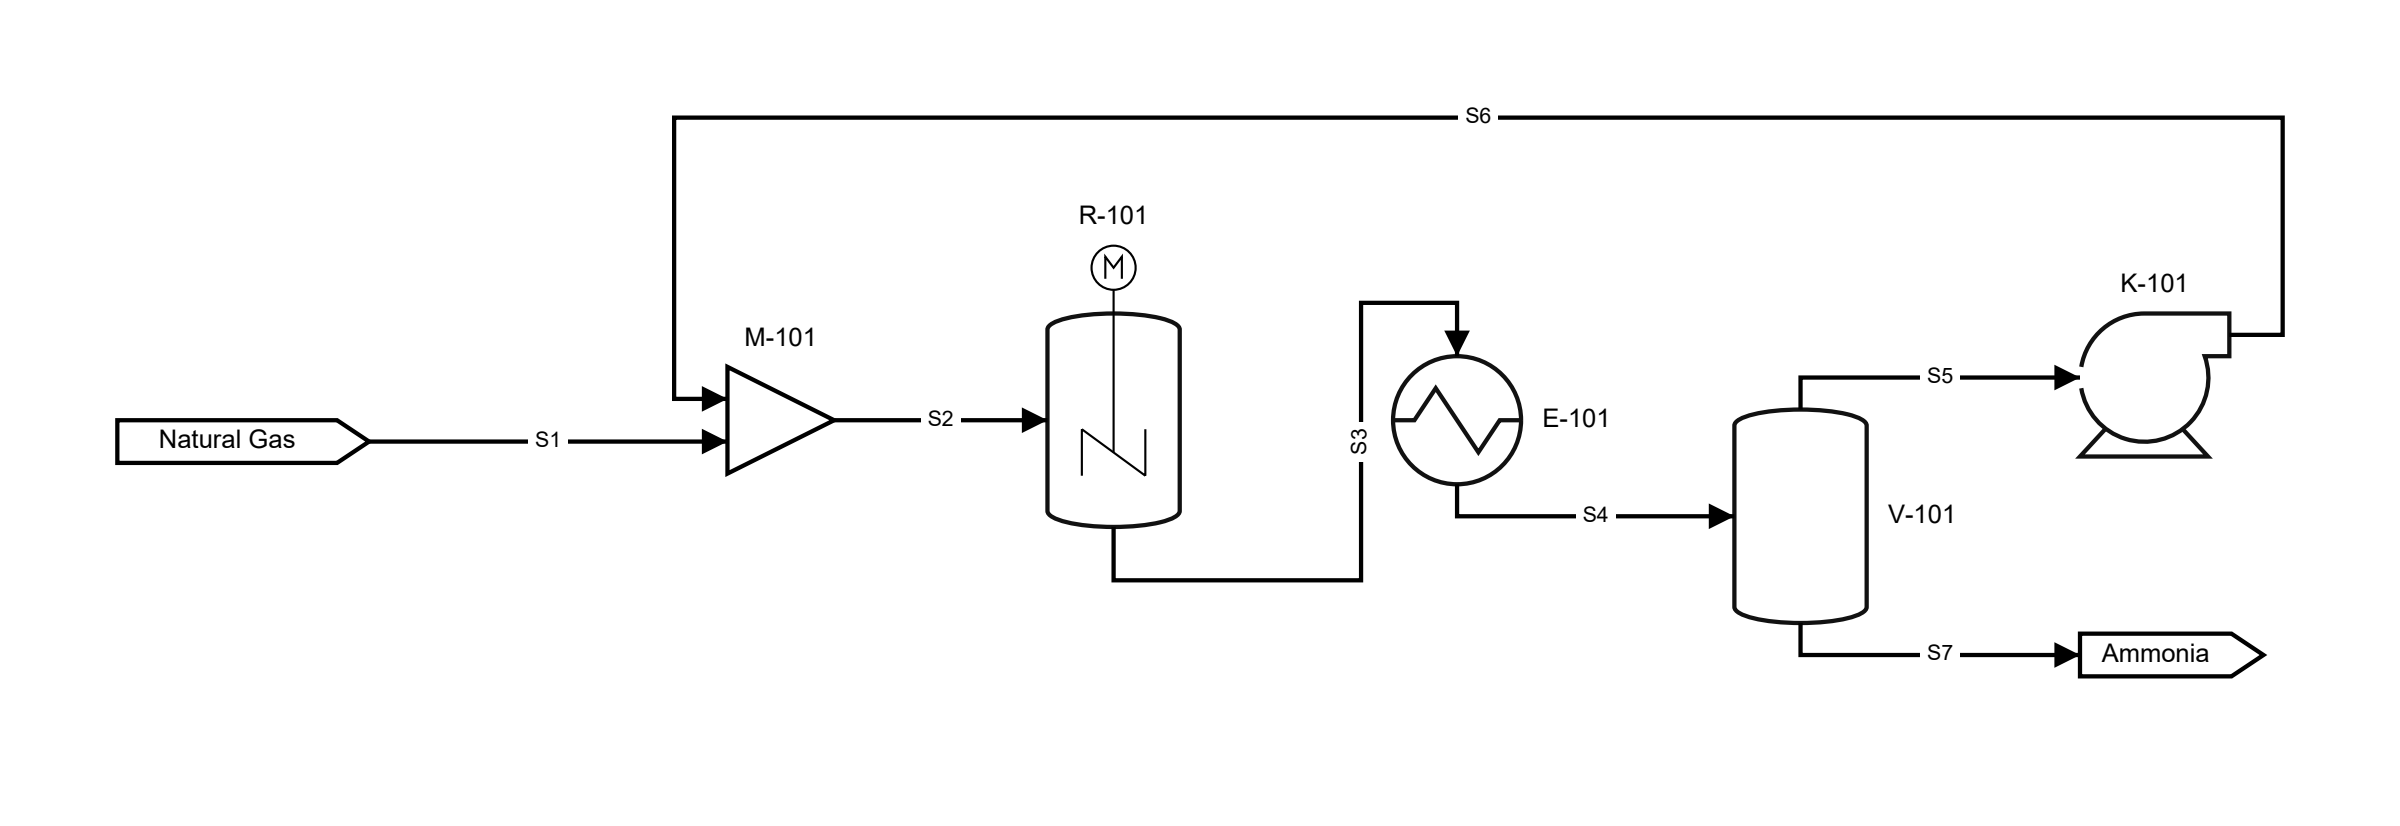
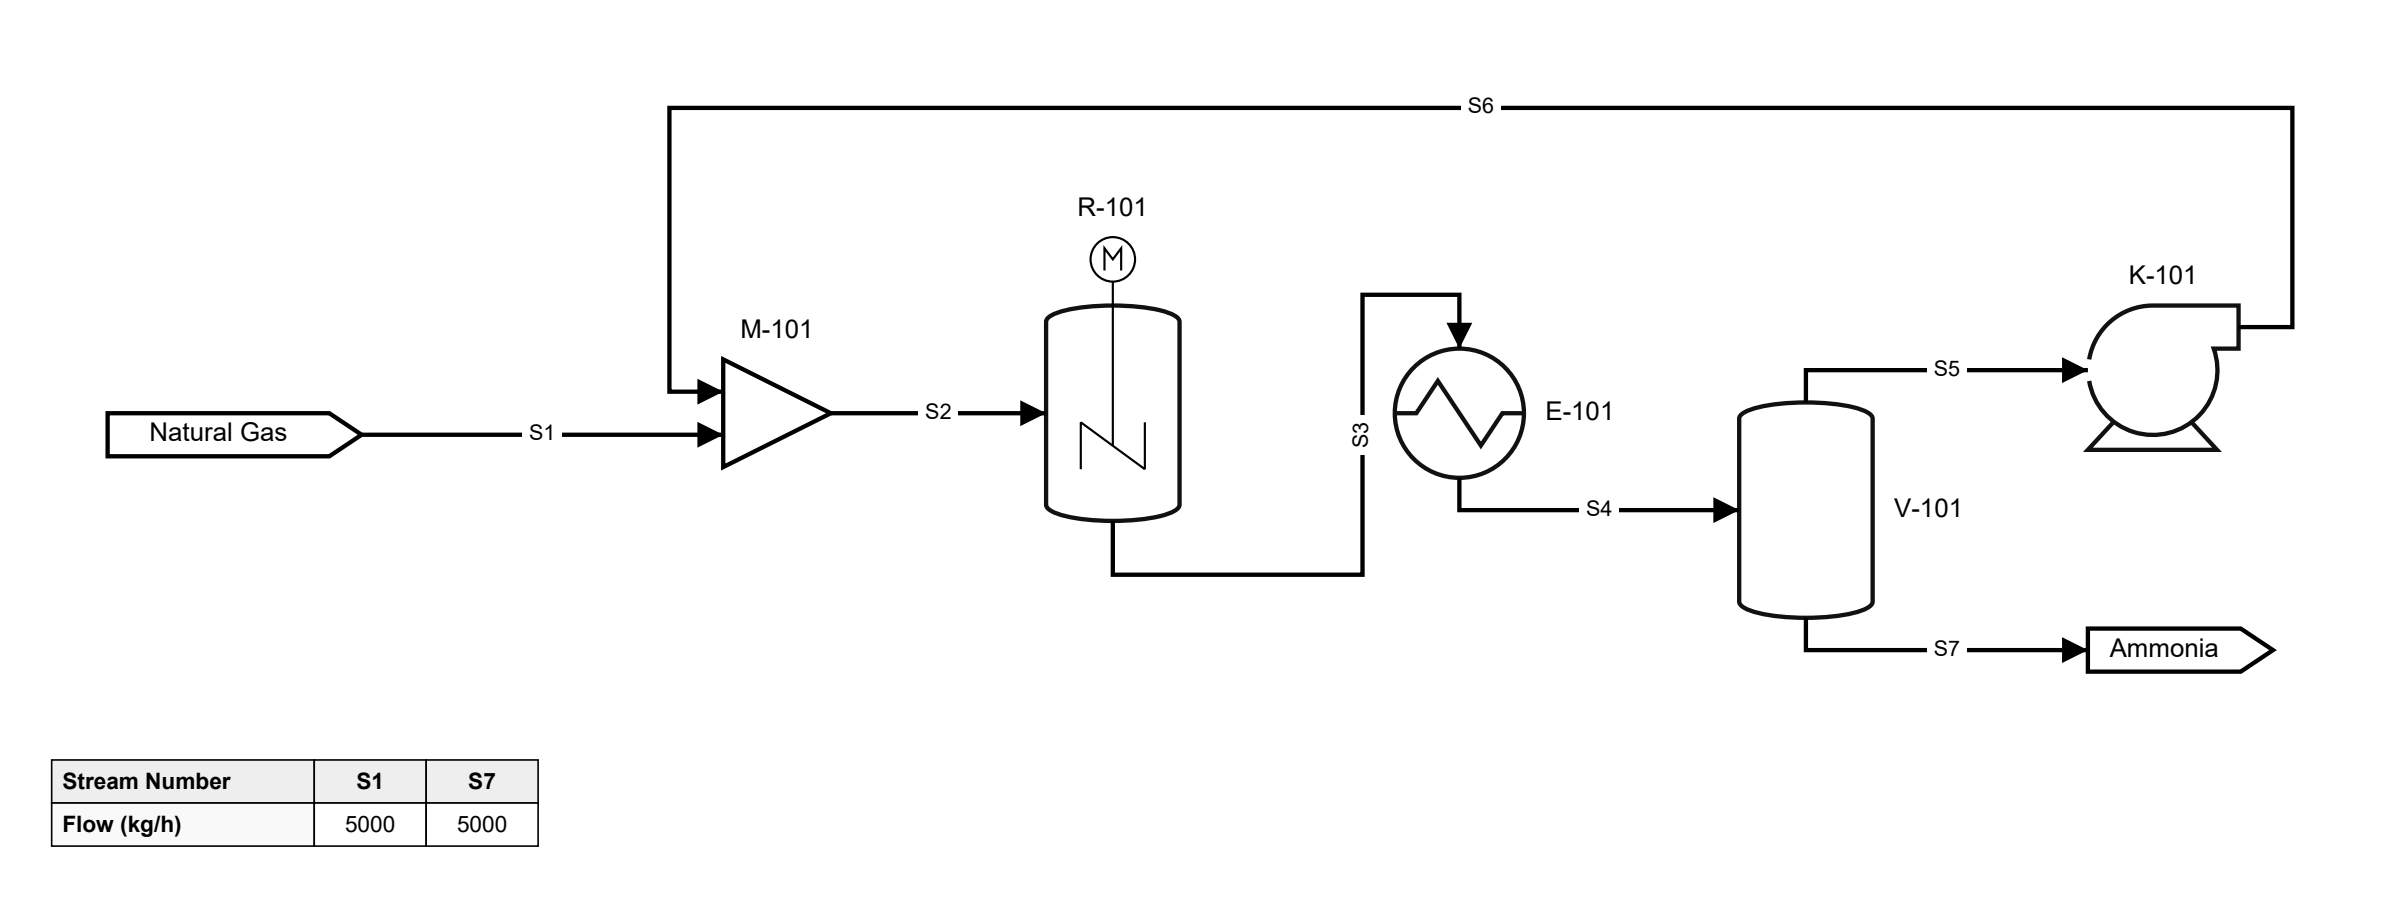
fix(examples): tabulate the ammonia loop's boundary streams
01_ammonia_loop raised stream-table-missing (#410): a PFD whose feed and
product cross the sheet edge with nothing tabulated breaches ISO
10628-1:2014 4.3.2 d). Nothing else leaves the drawn loop -- every vapour
recycles back to the mixer -- so the feed and the product carry the same
number by the topology's own conservation, and render with
show_stream_table=True to report it.

diff --git a/tests/test_golden.py b/tests/test_golden.py
@@ -64,13 +64,15 @@ def _ammonia_loop() -> Flowsheet:
     sep = fs.add(units.Separator("V-101"))
     comp = fs.add(units.Compressor("K-101"))
     prod = fs.add(units.Product("Ammonia"))
-    fs.connect(feed.outlet, mix.in_2)
+    feed_in = fs.connect(feed.outlet, mix.in_2)
     fs.connect(mix.outlet, reformer.feed)
     fs.connect(reformer.outlet, hx.shell_in)
     fs.connect(hx.shell_out, sep.feed)
     fs.connect(sep.vapor, comp.suction)
     fs.connect(comp.discharge, mix.in_1)
-    fs.connect(sep.liquid, prod.inlet)
+    product_out = fs.connect(sep.liquid, prod.inlet)
+    feed_in.properties = {"Flow (kg/h)": "5000"}
+    product_out.properties = {"Flow (kg/h)": "5000"}
     return fs
 
 
@@ -4095,7 +4097,7 @@ def _alumina_refinery() -> Flowsheet:
 
 
 SCENARIOS = {
-    "01_ammonia_loop": (_ammonia_loop, {}),
+    "01_ammonia_loop": (_ammonia_loop, {"show_stream_table": True}),
     # 02 is the manual-placement example and is the one sheet drawn with the
     # coordinate overlay on, which is what its example demonstrates. It is
     # therefore also what pins the overlay: the grid, the numbers written on it,

diff --git a/examples/01_ammonia_loop.py b/examples/01_ammonia_loop.py
@@ -11,13 +11,19 @@ sep = fs.add(Separator("V-101"))
 comp = fs.add(Compressor("K-101"))
 prod = fs.add(Product("Ammonia"))
 
-fs.connect(feed.outlet, mix.in_2)
+feed_in = fs.connect(feed.outlet, mix.in_2)
 fs.connect(mix.outlet, reformer.feed)
 fs.connect(reformer.outlet, hx.shell_in)
 fs.connect(hx.shell_out, sep.feed)
 fs.connect(sep.vapor, comp.suction)
 fs.connect(comp.discharge, mix.in_1)
-fs.connect(sep.liquid, prod.inlet)
+product_out = fs.connect(sep.liquid, prod.inlet)
 
-fs.render(out("ammonia_auto.svg"))
+# The separator's vapour all returns to the mixer, so nothing but this
+# feed and this product crosses the sheet edge, and with nothing else
+# leaving the loop, one balances the other.
+feed_in.properties = {"Flow (kg/h)": "5000"}
+product_out.properties = {"Flow (kg/h)": "5000"}
+
+fs.render(out("ammonia_auto.svg"), show_stream_table=True)
 print("ammonia_auto.svg generated successfully.")
